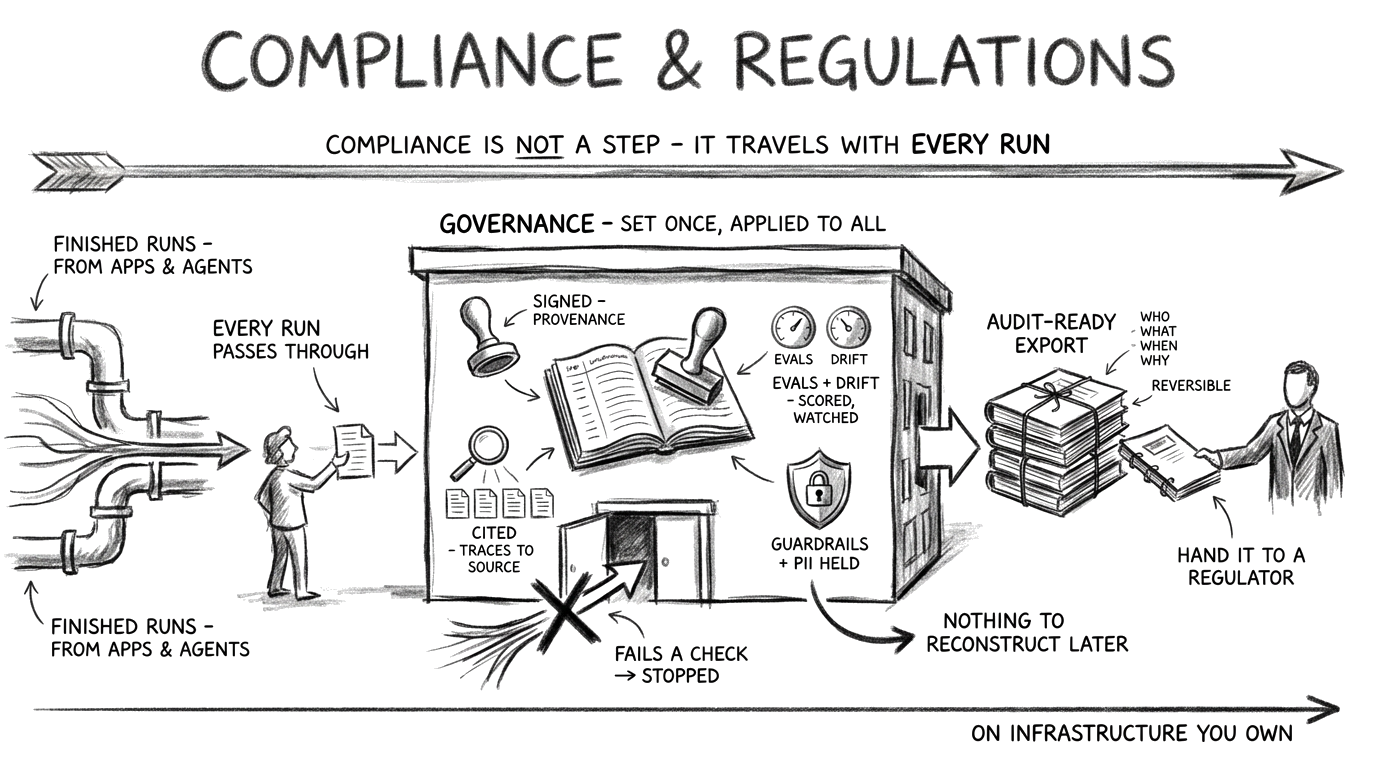
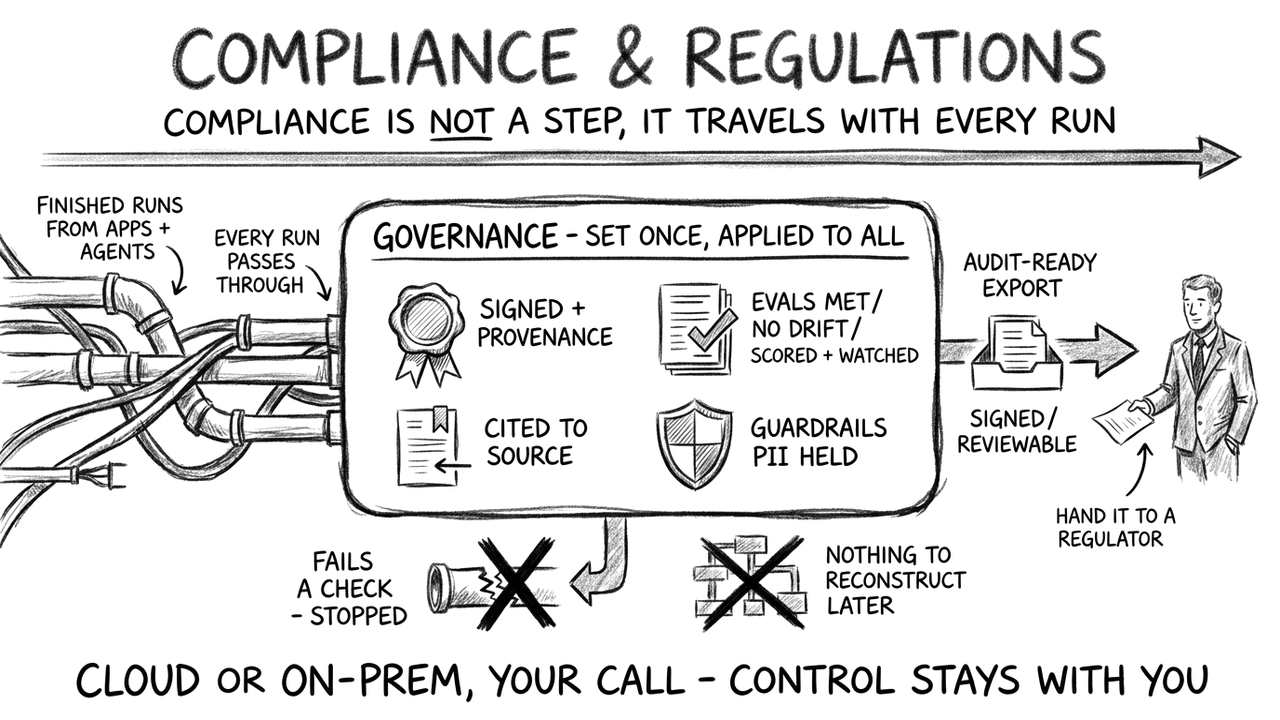
fix(landing): regenerate compliance flow diagram without infrastructure-you-own label
The body copy was already corrected (Complete control / No vendor lock-in)
but the diagram image had 'ON INFRASTRUCTURE YOU OWN' baked into the bottom.
Regenerated the charcoal-on-white hand-lettered diagram via OpenRouter
gemini-3-pro-image (Nano Banana Pro), keeping the COMPLIANCE & REGULATIONS
title, the governance box (signed / evals met / cited / guardrails), fails-a-
check-stopped and audit-ready-export-to-a-regulator content; the bottom
baseline now reads 'CLOUD OR ON-PREM, YOUR CALL - CONTROL STAYS WITH YOU'.
Background whitened to pure #FFFFFF (Pillow). Alt text updated to match.

diff --git a/src/app/page.tsx b/src/app/page.tsx
@@ -261,7 +261,7 @@ export default function LandingPage() {
               <figure className="relative overflow-hidden rounded-2xl border border-border bg-[#f4f2ec] p-1.5 shadow-[0_30px_120px_-30px_rgba(5,150,105,0.22)]">
                 <Image
                   src="/diagrams/flow/flow-compliance.png"
-                  alt="Compliance travels with every run: each run is signed, cited and scored; one that fails a check is stopped; audit-ready evidence exports for a regulator."
+                  alt="Compliance travels with every run: each run is signed, cited and scored; one that fails a check is stopped; audit-ready evidence exports for a regulator. Cloud or on-prem, the control stays with you."
                   width={1280}
                   height={720}
                   className="h-auto w-full rounded-xl"